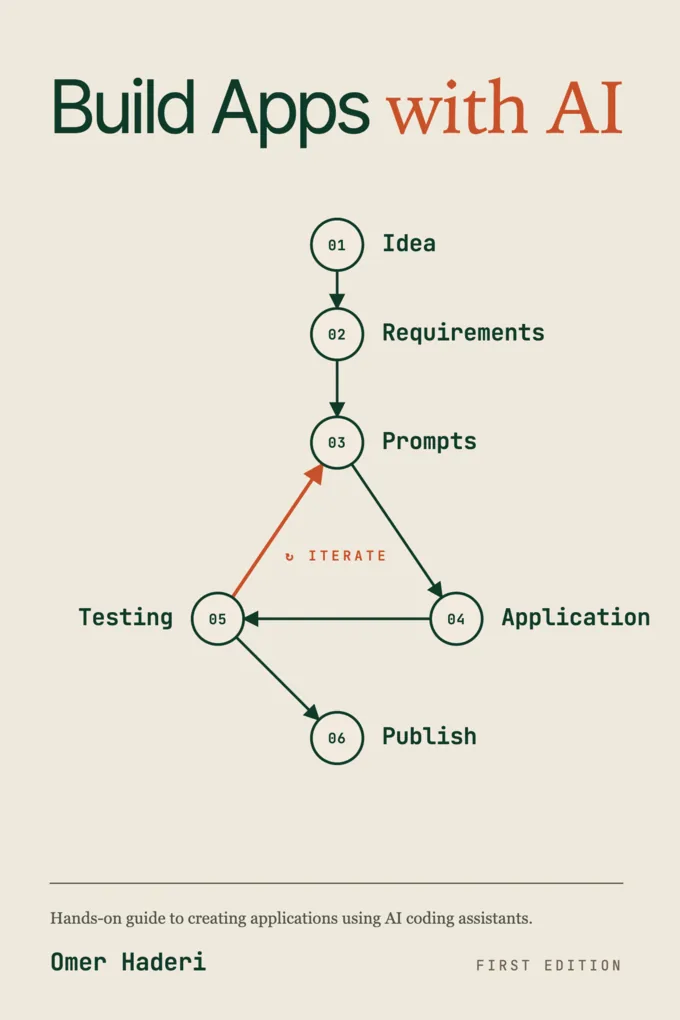
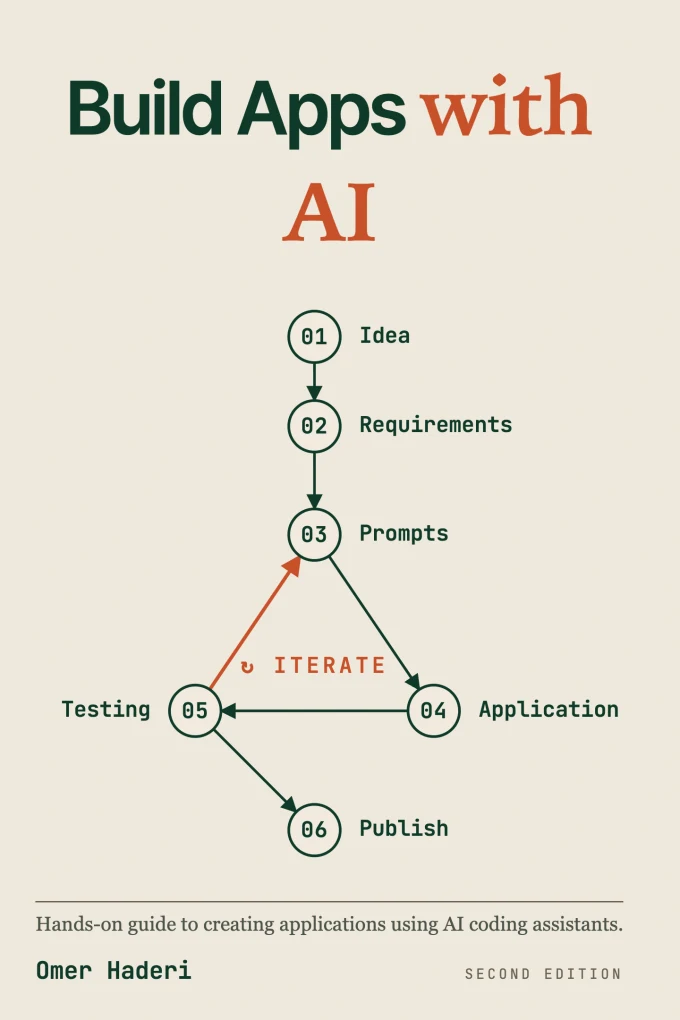
early readers can have the second edition for free

diff --git a/README.md b/README.md
@@ -2,6 +2,14 @@
   <img src="assets/front.webp" alt="Build Apps with AI book cover" width="320">
 </p>
 
+> ## 📣 Free Second Edition for Early Readers
+>
+> **Bought the book on Amazon before 18 June 2026?** Email **info@llm-books.com** with your order number and I'll send you the second edition as PDF and/or ePub, on the house.
+>
+> **Bought it on Payhip?** You're already covered, check your inbox, the update is on its way.
+
+---
+
 This is the companion repository for *Build Apps with AI: A hands-on guide to creating Android and iOS apps with AI coding assistants*.
 
 If you're reading the book, this repo will help you with the following:
@@ -87,6 +95,8 @@ The [Discussions tab](../../discussions) is for:
 - **Paperback**: [Amazon](https://mybook.to/BOMLa) (recommended for desk-reference reading while you build)
 - **PDF**: [Payhip](https://payhip.com/b/3NovW), includes free lifetime updates (best for following along on a second monitor)
 
+> ### 👉 Want to learn more? Visit **[llm-books.com/build-apps-with-ai](https://llm-books.com/build-apps-with-ai)** for sample chapters, updates, and more.
+
 A copy of the book makes this repo much more useful, but the prompts are free for anyone who finds them.
 
 ---
@@ -103,5 +113,3 @@ A copy of the book makes this repo much more useful, but the prompts are free fo
 This is your safety net. If you're following the book and something doesn't work, **it is almost never your fault**. Software changes, libraries get updated, Apple redesigns App Store Connect every six months. When you find something broken, please report it. You're helping every reader who comes after you.
 
 Now go ship something.
-
-- Omer

diff --git a/changelog.md b/changelog.md
@@ -6,18 +6,23 @@ The format follows [Keep a Changelog](https://keepachangelog.com/) conventions.
 
 ---
 
-## [Unreleased]
+## [2.0.0] — Second edition (2026)
 
-Changes that have been made to this repository since the last book revision but are not yet reflected in a published edition.
+A new edition, expanding the book from *building* an app to the full journey: finding an idea, shipping responsibly, and earning from it.
 
 ### Added
-- *(none yet)*
-
-### Fixed
-- *(none yet)*
+- New **Chapter 1 — Finding and Validating Your Idea** (ideation, validation, mockups with AI)
+- New **Chapter 21 — Making Money From Your App** (monetization models, RevenueCat paywall)
+- New **Appendix A — Reviewing What the AI Builds** (senior-reviewer prompts)
+- New **Appendix B — Security, Privacy, and App-Store Readiness** (pre-publish checklist, GDPR basics, rejection checklist)
+- Accessibility section in the Design chapter
+- "Are You Ready?" self-check and "Tested Versions" page in the front matter
+- 14 new prompts in the companion repo (75 → 89)
 
 ### Changed
-- *(none yet)*
+- Renumbered to **24 chapters** (the two new chapters shifted the rest)
+- Regenerated the prompts index and renumbered prompt folders to match
+- Updated README, errata, and marketing references to the new numbering and counts
 
 ---
 
@@ -28,4 +33,4 @@ The first published edition of *Build Apps with AI*.
 ### Added
 - All 22 chapters, About This Book, Before You Begin, Introduction, Glossary
 - Companion GitHub repository with all chapter prompts
-- Errata page (empty at launch — will populate over time)
+- Errata page (empty at launch, will populate over time)
